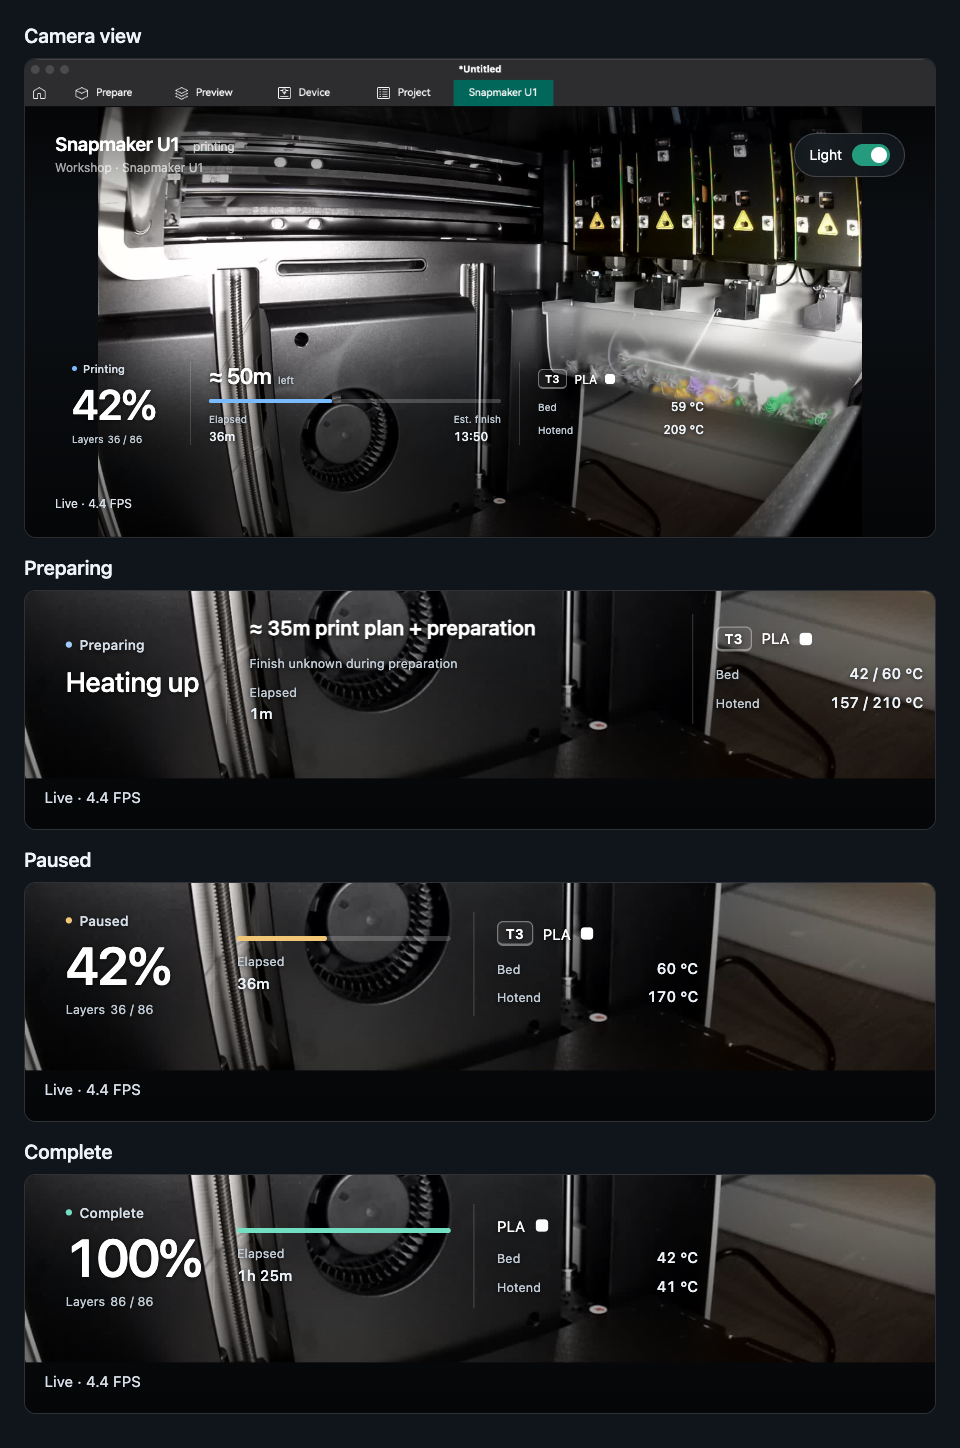
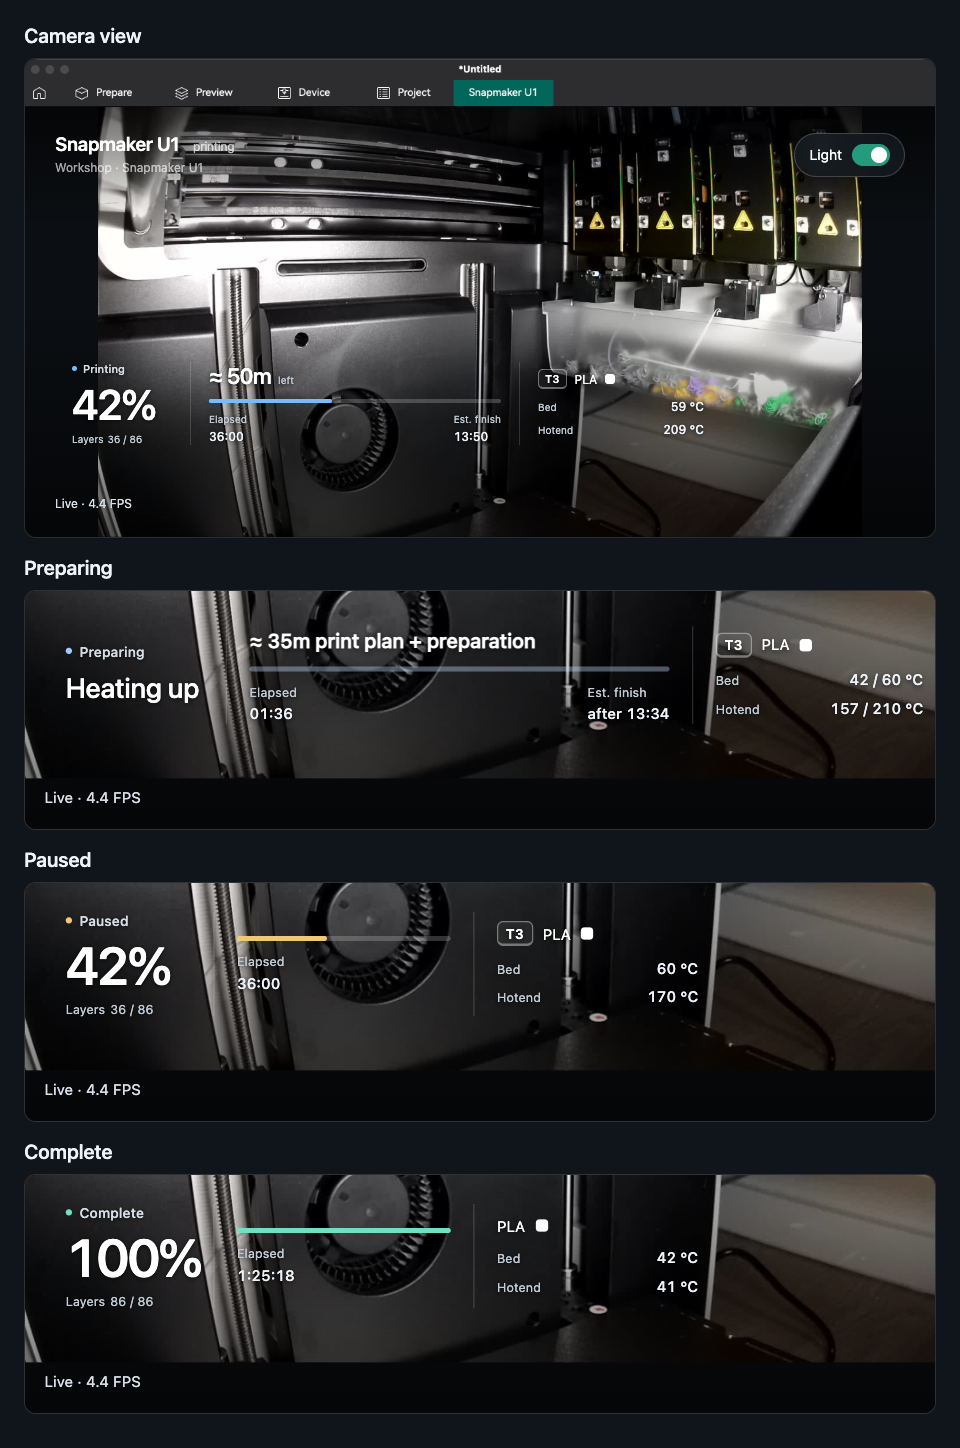
fix: clarify elapsed and preparation timing

diff --git a/src/ui/PrintStats.svelte b/src/ui/PrintStats.svelte
@@ -13,6 +13,18 @@
         ? '<1m'
         : (minutes >= 60 ? Math.floor(minutes / 60) + 'h ' : '') + (minutes % 60) + 'm';
   }
+  function elapsedClock(value: unknown) {
+    if (!number(value)) return '—';
+    const seconds = Math.floor(value);
+    const minutes = Math.floor(seconds / 60);
+    const pad = (part: number) => String(part).padStart(2, '0');
+    return (
+      (minutes >= 60 ? Math.floor(minutes / 60) + ':' : '') +
+      pad(minutes % 60) +
+      ':' +
+      pad(seconds % 60)
+    );
+  }
   function temperature(value: Heater = {}, showTarget = true) {
     const degrees = (item: unknown) => (number(item) ? Math.round(item) : '—');
     const target =
@@ -41,6 +53,10 @@
   const showPlan = $derived(
     (printing || preparing) && !showEstimate && number(stats?.planned_total),
   );
+  const preparationFinish = $derived(
+    preparing && number(stats?.planned_total) && stats.planned_total > 0,
+  );
+  const showFinish = $derived(showEstimate || preparationFinish);
   const standby = $derived(state === 'standby');
   const missing = $derived(state === 'unavailable');
   const terminal = $derived(['complete', 'cancelled', 'error'].includes(state));
@@ -75,7 +91,11 @@
       : null,
   );
   const finish = $derived(
-    showEstimate && number(stats?.remaining) ? new Date(receivedAt + stats.remaining * 1000) : null,
+    preparationFinish && number(stats?.planned_total)
+      ? new Date(receivedAt + stats.planned_total * 1000)
+      : showEstimate && number(stats?.remaining)
+        ? new Date(receivedAt + stats.remaining * 1000)
+        : null,
   );
   const finishTime = $derived(
     finish && Number.isFinite(finish.getTime())
@@ -116,31 +136,40 @@
       >
       <span hidden={preparing}>Slicer plan at normal speed</span>
     </div>
-    <div id="finish-unknown" hidden={!(printing || preparing) || showEstimate}>
-      {preparing ? 'Finish unknown during preparation' : 'Finish unknown'}
-    </div>
+    <div id="finish-unknown" hidden={!(printing || preparing) || showFinish}>Finish unknown</div>
     <div
-      hidden={preparing}
       id="progress-bar"
+      data-indeterminate={preparing || undefined}
       role="progressbar"
-      aria-label="Print progress"
+      aria-label={preparing ? 'Preparing print' : 'Print progress'}
       aria-valuemin="0"
       aria-valuemax="100"
-      aria-valuenow={progress === null ? undefined : Math.floor(progress)}
-      aria-valuetext={progress === null
-        ? 'Progress unavailable'
-        : Math.floor(progress) + '% complete'}
+      aria-valuenow={preparing || progress === null ? undefined : Math.floor(progress)}
+      aria-valuetext={preparing
+        ? 'Preparation in progress'
+        : progress === null
+          ? 'Progress unavailable'
+          : Math.floor(progress) + '% complete'}
     >
-      <span id="progress-fill" style:width={(progress ?? 0) + '%'}></span>
+      <span id="progress-fill" style:width={(preparing ? 100 : (progress ?? 0)) + '%'}></span>
     </div>
     <dl class="stats-times">
       <div>
         <dt>Elapsed</dt>
-        <dd id="elapsed-value">{duration(stats?.elapsed)}</dd>
+        <dd id="elapsed-value" title="Printer-reported elapsed time, to the second">
+          {elapsedClock(stats?.elapsed)}
+        </dd>
       </div>
-      <div id="finish-stat" hidden={!showEstimate}>
+      <div id="finish-stat" hidden={!showFinish}>
         <dt>Est. finish</dt>
-        <dd id="finish-value">{finishTime}</dd>
+        <dd
+          id="finish-value"
+          title={preparationFinish
+            ? 'Slicer plan from this update; preparation adds time.'
+            : undefined}
+        >
+          {preparationFinish ? 'after ' : ''}{finishTime}
+        </dd>
       </div>
     </dl>
   </div>
@@ -304,6 +333,29 @@
     height: 100%;
     border-radius: inherit;
     background: #7abaff;
+  }
+  #progress-bar[data-indeterminate] #progress-fill {
+    position: relative;
+    background: #a0cbff38;
+  }
+  #progress-bar[data-indeterminate] #progress-fill::after {
+    content: '';
+    position: absolute;
+    inset: 0;
+    background: linear-gradient(90deg, transparent, #a0cbff, transparent);
+    transform: translateX(-100%);
+    animation: preparation-shimmer 2.4s ease-in-out infinite;
+  }
+  @keyframes preparation-shimmer {
+    to {
+      transform: translateX(100%);
+    }
+  }
+  @media (prefers-reduced-motion: reduce) {
+    #progress-bar[data-indeterminate] #progress-fill::after {
+      animation: none;
+      transform: none;
+    }
   }
   #stats[data-state='complete'] #progress-fill {
     background: #72dec2;

diff --git a/tests/page.test.ts b/tests/page.test.ts
@@ -102,8 +102,7 @@ test('print statistics display incoming measurements while the camera is stopped
     'Progress rounds down to a whole percent',
   );
   assert.deepEqual(numbers(field('layers-value')), [128, 300]);
-  assert.match(field('elapsed-value').textContent!, /1\s*(?:h|hour)/i);
-  assert.match(field('elapsed-value').textContent!, /10\s*(?:m|min)/i);
+  assert.equal(field('elapsed-value').textContent, '1:10:00');
   assert.deepEqual(numbers(field('remaining-value')), [1, 40]);
   assert.equal(
     field('material-value').textContent,
@@ -122,6 +121,62 @@ test('print statistics display incoming measurements while the camera is stopped
     'The swatch follows the reported material color',
   );
   assert.equal(lastMessage().playing, false);
+});
+
+test('elapsed time shows whole reported seconds without inventing a ticking clock', () => {
+  selectPrinter();
+  for (const [elapsed, clock] of [
+    [0, '00:00'],
+    [59.9, '00:59'],
+    [60, '01:00'],
+    [3599, '59:59'],
+    [3600, '1:00:00'],
+    [4207.9, '1:10:07'],
+    [NaN, '—'],
+  ] as const) {
+    publish({ generation: 1, stats: { ...metrics, elapsed } });
+    assert.equal(field('elapsed-value').textContent, clock);
+    advance(1000);
+    assert.equal(field('elapsed-value').textContent, clock);
+  }
+});
+
+test('preparation gives a dated after-time from the current slicer plan and no false percentage', () => {
+  vi.setSystemTime(new Date(2026, 10, 4, 23, 50, 0));
+  selectPrinter();
+  publish({
+    generation: 1,
+    stats: { ...metrics, phase: 'preparing', current_layer: 0, remaining: null },
+  });
+  const baseline = new Date(Date.now() + metrics.planned_total * 1000);
+  const expected =
+    'after ' +
+    baseline.toLocaleDateString(undefined, { month: 'short', day: 'numeric' }) +
+    ', ' +
+    baseline.toLocaleTimeString(undefined, { hour: '2-digit', minute: '2-digit' });
+  assert.equal(field('finish-value').textContent, expected);
+  assert.equal(progress().hasAttribute('aria-valuenow'), false);
+  publish({
+    generation: 1,
+    stats: {
+      ...metrics,
+      phase: 'preparing',
+      current_layer: 0,
+      remaining: null,
+      planned_total: null,
+    },
+  });
+  assert.equal(
+    visible(field('finish-value')),
+    false,
+    'Missing plans cannot create a finish baseline',
+  );
+  publish({
+    generation: 1,
+    stats: { ...metrics, state: 'paused', phase: 'preparing', remaining: null },
+  });
+  assert.equal(visible(field('finish-value')), false, 'A pause has no finish forecast');
+  assert.equal(progress().getAttribute('aria-valuenow'), '42');
 });
 
 test('pausing hides moving estimates and resuming restores them', () => {
@@ -186,13 +241,16 @@ test('layer-zero purge keeps preparation and its plan separate from remaining ti
     },
   });
   assert.equal(field('stats-state').textContent, 'Preparing');
-  assert.equal(visible(progress()), false);
+  assert.equal(visible(progress()), true);
+  assert.equal(progress().hasAttribute('aria-valuenow'), false);
+  assert.equal(progress().getAttribute('aria-valuetext'), 'Preparation in progress');
   assert.equal(visible(field('remaining-value')), false);
   assert.equal(visible(field('plan-value')), true);
   assert.match(field('plan-value').textContent!, /35m print plan \+ preparation/);
   assert.equal(visible(field('elapsed-value')), true);
-  assert.equal(visible(field('finish-value')), false);
-  assert.equal(field('finish-unknown').textContent?.trim(), 'Finish unknown during preparation');
+  assert.equal(visible(field('finish-value')), true);
+  assert.match(field('finish-value').textContent!, /^after /);
+  assert.equal(visible(field('finish-unknown')), false);
   publish({ generation: 1, stats: { ...metrics, remaining: 1331.84 } });
   assert.equal(visible(progress()), true);
   assert.deepEqual(numbers(field('remaining-value')), [23]);

diff --git a/scripts/prepare_screenshots.py b/scripts/prepare_screenshots.py
@@ -43,7 +43,7 @@ def screenshot_page(camera=None):
                      "bed": {"temperature": 59, "target": 60},
                      "hotend": {"temperature": 209, "target": 210}},
     }
-    # Layer zero can include positive extrusion time; preparation has no ETA.
+    # Layer zero can include extrusion; show a plan-based after-time and activity bar.
     fixtures["preparing"] = dict(fixtures["printing"], progress=0, current_layer=0,
                                   phase="preparing", planned_total=2081,
                                   elapsed=96, printing_duration=30, remaining=None,

diff --git a/docs/reference.md b/docs/reference.md
@@ -38,6 +38,8 @@ Layer zero means `preparing`, even after purge gives a positive printing duratio
 A positive integer model layer means `printing`; absent, invalid, or contradictory markers mean `unknown`.
 Confirmed M73 progress of 100% during an active job means `finishing`, with unknown ETA.
 Preparation has unknown remaining duration; no learned startup constant is applied.
+With a known plan, the preparation finish label is “after” the latest status time plus that plan.
+This is an approximate plan-based baseline, not a measured completion time.
 
 Finish estimates currently support metadata identifying `OrcaSlicer`, including the 2.5.0-dev producer, using its normal-mode time plan.
 Other producers, including unverified SnapmakerOrca variants, show only the original plan.
@@ -47,6 +49,8 @@ Under the standard [U1 display fallback](https://github.com/Snapmaker/u1-klipper
 Only raw state `printing`, model phase `printing`, and a finite speed factor within 0.000001 of one permit `planned_total * (1 - display_progress)`.
 Paused jobs, speed overrides, missing inputs, and ambiguous source evidence have no finish forecast.
 The UI rounds plan and remaining durations up to minutes and anchors finish time to the received snapshot without animating a countdown.
+Elapsed time shows whole printer-reported seconds as `mm:ss` or `h:mm:ss`, refreshed with status rather than extrapolated locally.
+The preparation bar uses a moving gradient without a percentage or accessibility value; reduced-motion mode keeps the gradient still.
 
 Metadata refreshes at most every 30 seconds, including successful entries, to observe updated metadata.
 Filename or file-size changes, inactive-to-active transitions, and backwards clock or file-position movement clear cached metadata and fetch immediately.

diff --git a/README.md b/README.md
@@ -41,7 +41,8 @@ Hover over the player to reveal Stop.
 Keyboard focus and touch also reveal the control.
 The light toggle works with playback started or stopped.
 
-During preparation, statistics show the slicer’s original print plan plus preparation, whose finish time is unknown.
+During preparation, statistics show the slicer’s original print plan and an approximate “after” finish time, with a moving gradient to indicate activity.
+Elapsed time uses a stopwatch format with seconds from the latest printer update.
 Supported OrcaSlicer jobs show approximate time left and finish time once model printing is confirmed at normal speed.
 When the inputs cannot support a finish estimate, the original plan stays labelled separately.
 
